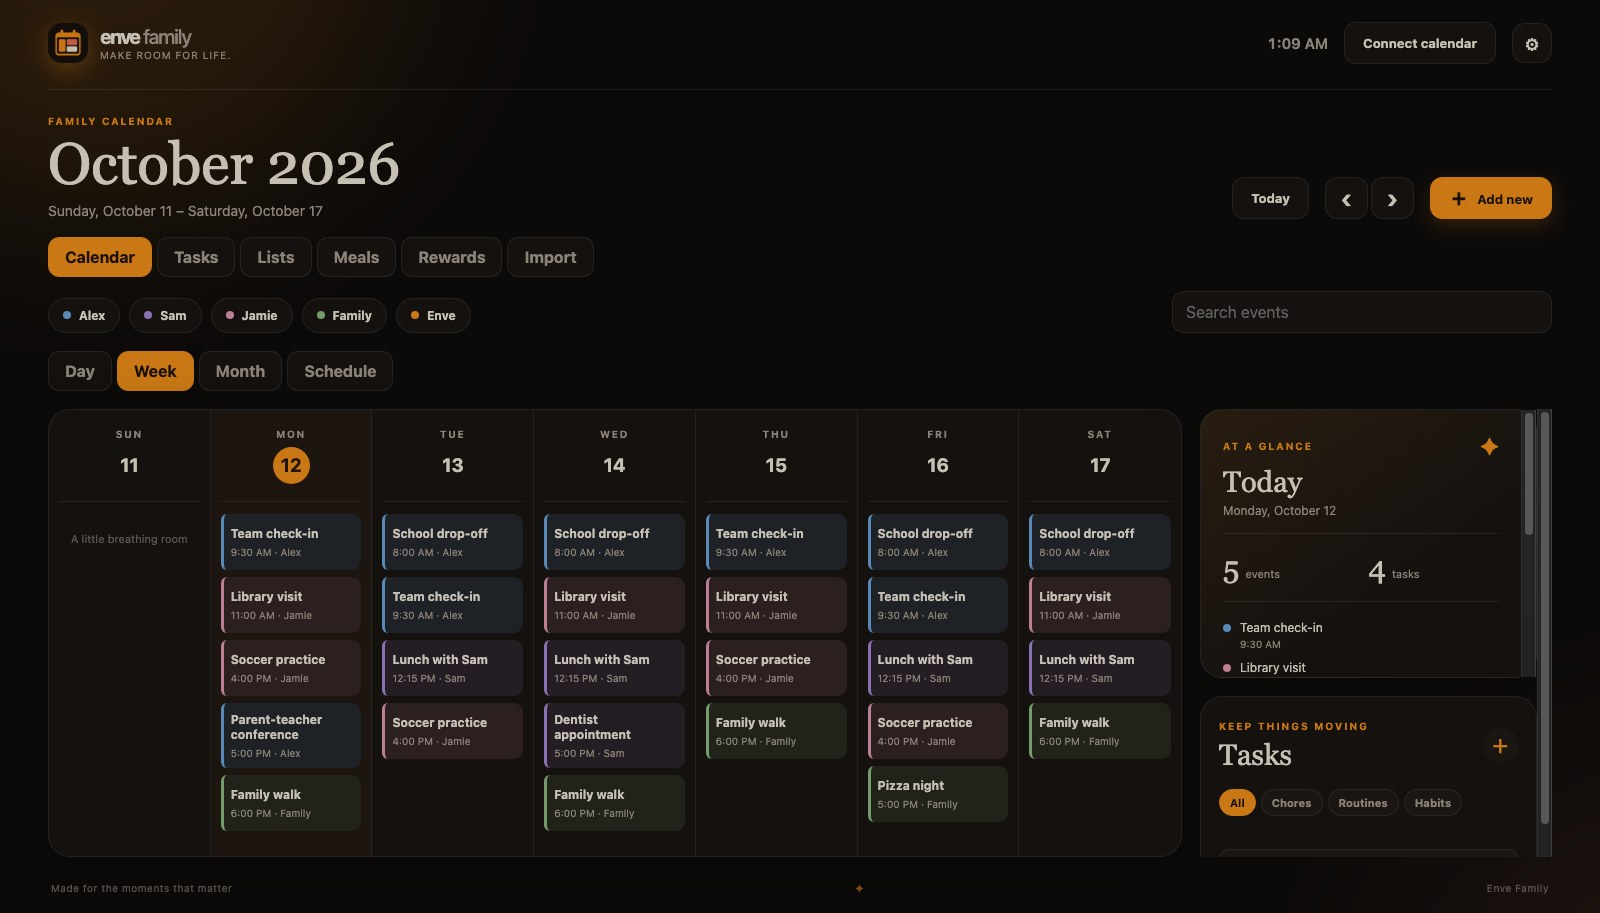
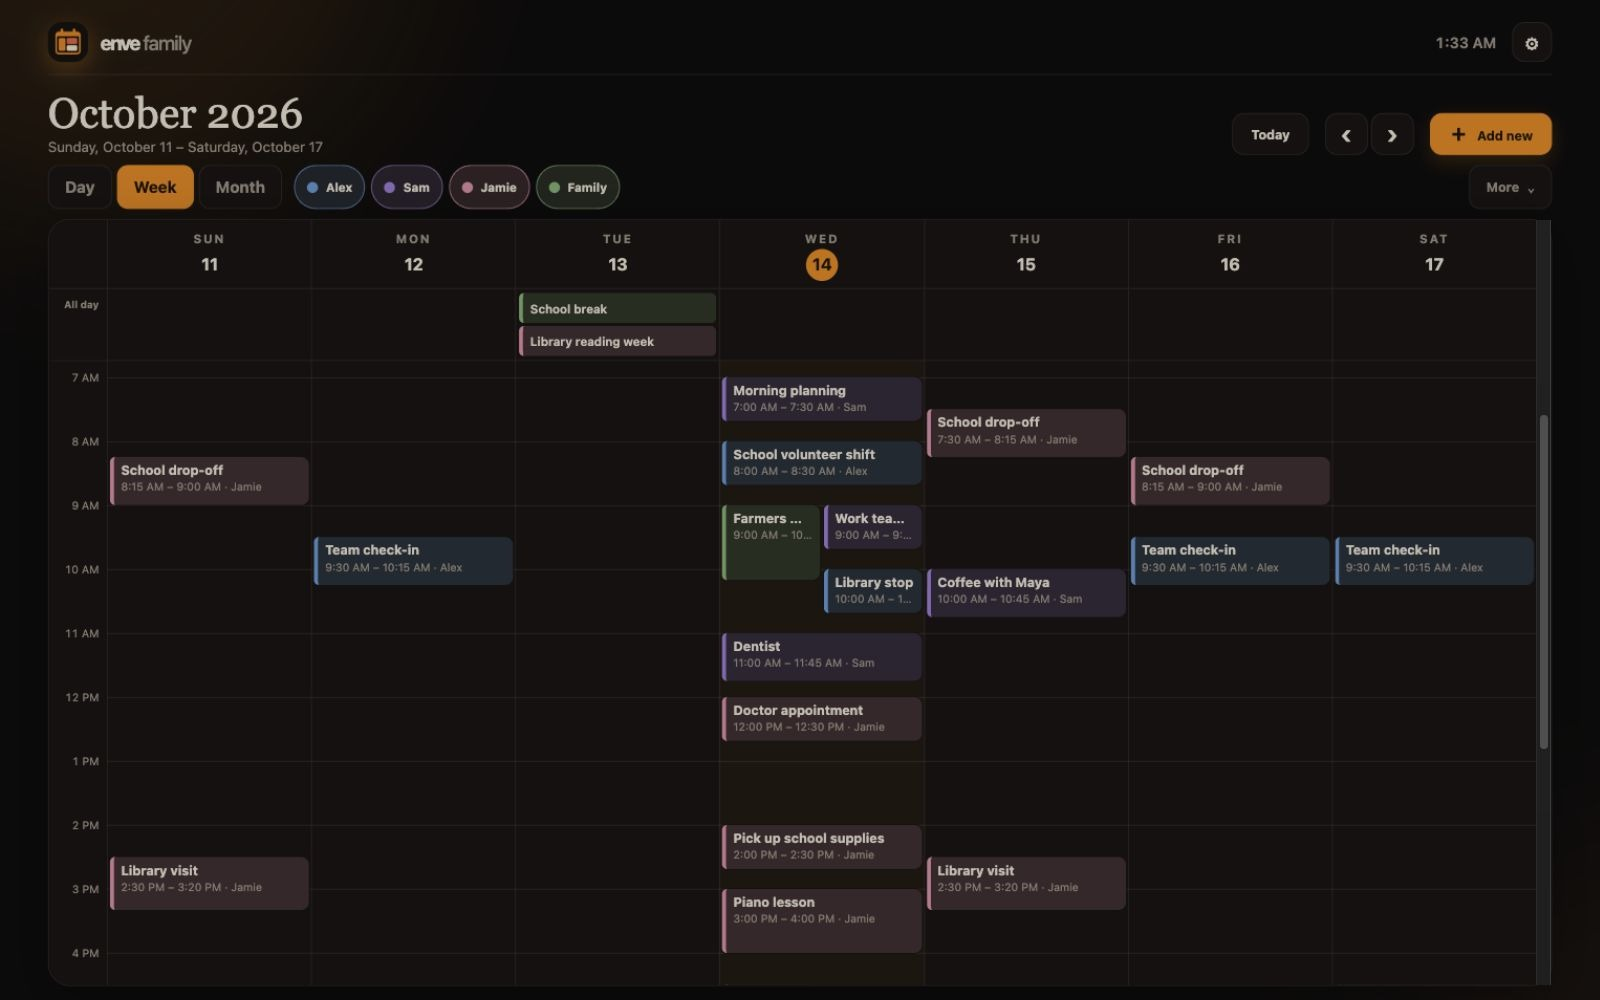
Refresh dashboard screenshots for the current interface

diff --git a/README.md b/README.md
@@ -22,7 +22,7 @@ A self-hosted, touch-friendly family calendar with day, week, and month views; r
 
 ## Screenshots
 
-These screenshots use an invented household and a disposable database. No connected accounts or private calendar data appear in them.
+These screenshots show the current interface, captured October 14, 2026, using an invented household and a disposable database. No connected accounts or private calendar data appear in them.
 
 | Calendar | Night mode | Dimmed clock |
 | --- | --- | --- |
@@ -36,7 +36,7 @@ These screenshots use an invented household and a disposable database. No connec
 | --- | --- | --- |
 | ![Shared grocery list](docs/screenshots/lists.jpg) | ![Month calendar in dark mode](docs/screenshots/night-month.jpg) | ![Accent color and dimming controls](docs/screenshots/display-settings.jpg) |
 
-The dashboard also supports [other accent colors](docs/screenshots/settings-accent.jpg) and adapts to an [iPhone-sized browser](docs/screenshots/phone-calendar.jpg). The [native iPhone app](docs/screenshots/iphone-app.jpg) uses the same household data and accent.
+The [day view](docs/screenshots/calendar-day.jpg) brings the schedule, tasks, and meals together. The dashboard also supports [other accent colors](docs/screenshots/settings-accent.jpg) and adapts to an [iPhone-sized browser](docs/screenshots/phone-calendar.jpg). The [native iPhone app](docs/screenshots/iphone-app.jpg) uses the same household data and accent.
 
 ## License
 
